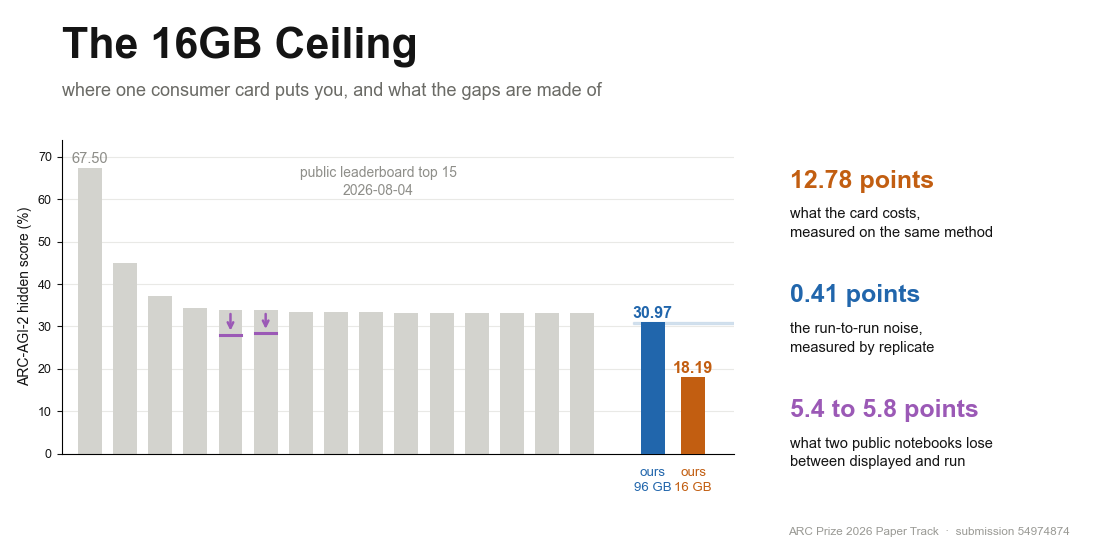
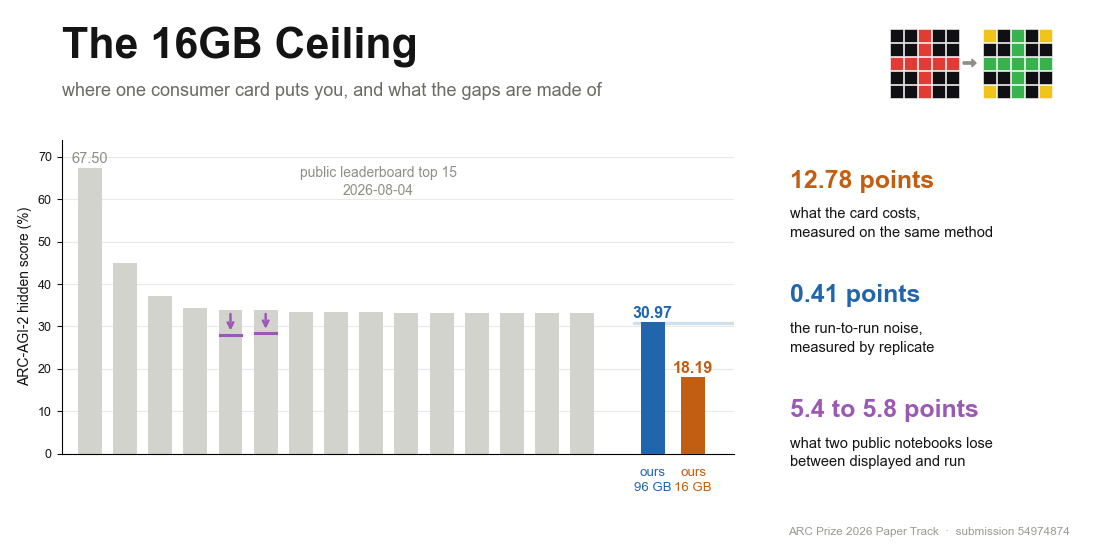
Restore the ARC grid motif and clear the last label collision

Changed region(s): [[0.7812, 0.0304, 0.9375, 0.1821]]

diff --git a/scripts/make_hero_final.py b/scripts/make_hero_final.py
@@ -25,6 +25,34 @@ INK, MUTE, RAIL, SURF, GREY = "#141414", "#6b6b66", "#e9e9e6", "#ffffff", "#b9b9
 SANS = ["Helvetica Neue", "Arial", "DejaVu Sans"]
 LO, HI = 30.56, 30.97
 
+# the ARC cell palette, for the drawn task motif that carries the benchmark's visual identity
+ARCPAL = ["#101014", "#1E6FD0", "#E23B36", "#37B24D", "#F0C419",
+          "#9AA0A6", "#D6489B", "#E8820C", "#5FC6E8", "#8A1B2E"]
+MOTIF_IN = [[0, 0, 2, 0, 0], [0, 0, 2, 0, 0], [2, 2, 2, 2, 2],
+            [0, 0, 2, 0, 0], [0, 0, 2, 0, 0]]
+MOTIF_OUT = [[4, 0, 3, 0, 4], [0, 0, 3, 0, 0], [3, 3, 3, 3, 3],
+             [0, 0, 3, 0, 0], [4, 0, 3, 0, 4]]
+
+
+def arc_motif(fig, x, y, cell=0.0125):
+    """A small drawn ARC task, input to output, in figure coordinates. Our own grids, not a logo."""
+    import matplotlib.patches as mp
+    aspect = H / W
+    cw, ch = cell, cell / aspect
+    for gx, grid in ((x, MOTIF_IN), (x + 6.6 * cw, MOTIF_OUT)):
+        n = len(grid)
+        for r in range(n):
+            for c in range(n):
+                fig.patches.append(mp.Rectangle(
+                    (gx + c * cw, y + (n - 1 - r) * ch), cw * 0.92, ch * 0.92,
+                    transform=fig.transFigure, facecolor=ARCPAL[grid[r][c]],
+                    edgecolor="white", linewidth=0.4, zorder=5))
+    ax_, ay_ = x + 5.55 * cw, y + 2.5 * ch
+    fig.patches.append(mp.FancyArrow(ax_ - 0.35 * cw, ay_, 0.62 * cw, 0,
+                                     transform=fig.transFigure, width=0.16 * ch,
+                                     head_width=0.55 * ch, head_length=0.30 * cw,
+                                     color="#8e8e89", zorder=5))
+
 
 def styled(ax, ylab):
     ax.set_ylabel(ylab, fontsize=9.5, color=MUTE)
@@ -47,21 +75,23 @@ def hero_triptych():
     fig.text(0.055, 0.895, "The 16GB Ceiling", fontsize=31, color=INK, fontweight="bold")
     fig.text(0.055, 0.828, "one card priced, one leaderboard audited, one checkpoint caught",
              fontsize=13, color=MUTE)
+    arc_motif(fig, 0.795, 0.825)
 
-    # panel 1: the constraint, with the replicate band as the tolerance on the right bar
+    # panel 1: the constraint, gap drawn as a dimension line clear of both bars
     a1 = fig.add_axes([0.055, 0.235, 0.245, 0.45], facecolor=SURF)
     a1.axhspan(LO, HI, color=BLUE, alpha=0.15, zorder=1)
     a1.bar([0, 1], [18.19, 30.97], 0.55, color=[GREY, BLUE], zorder=2)
     a1.text(0, 19.1, "18.19", ha="center", fontsize=14, color="#8e8e89", fontweight="bold")
     a1.text(1, 31.9, "30.97", ha="center", fontsize=14, color=BLUE, fontweight="bold")
-    a1.annotate("", xy=(0.42, 30.3), xytext=(0.42, 18.8),
+    a1.plot([0.28, 1.55], [18.19, 18.19], color="#cfcfca", lw=1.0, ls=":", zorder=1)
+    a1.annotate("", xy=(1.52, 30.75), xytext=(1.52, 18.4),
                 arrowprops=dict(arrowstyle="<->", color=AMBER, lw=2.0))
-    a1.text(0.52, 24.4, "12.78", fontsize=13.5, color=AMBER, fontweight="bold",
-            va="center")
+    a1.text(1.73, 24.6, "12.78", fontsize=13, color=AMBER, fontweight="bold",
+            va="center", ha="center", rotation=90)
     a1.set_xticks([0, 1])
     a1.set_xticklabels(["16 GB", "96 GB"], fontsize=10.5)
     a1.set_ylim(0, 37)
-    a1.set_xlim(-0.55, 1.55)
+    a1.set_xlim(-0.55, 1.95)
     styled(a1, "hidden score (%)")
 
     # panel 2: shown against run, one pair per notebook
@@ -130,6 +160,7 @@ def hero_field():
     fig.text(0.055, 0.895, "The 16GB Ceiling", fontsize=31, color=INK, fontweight="bold")
     fig.text(0.055, 0.828, "where one consumer card puts you, and what the gaps are made of",
              fontsize=13, color=MUTE)
+    arc_motif(fig, 0.795, 0.825)
 
     ax = fig.add_axes([0.055, 0.19, 0.60, 0.56], facecolor=SURF)
     xs = np.arange(len(field))
